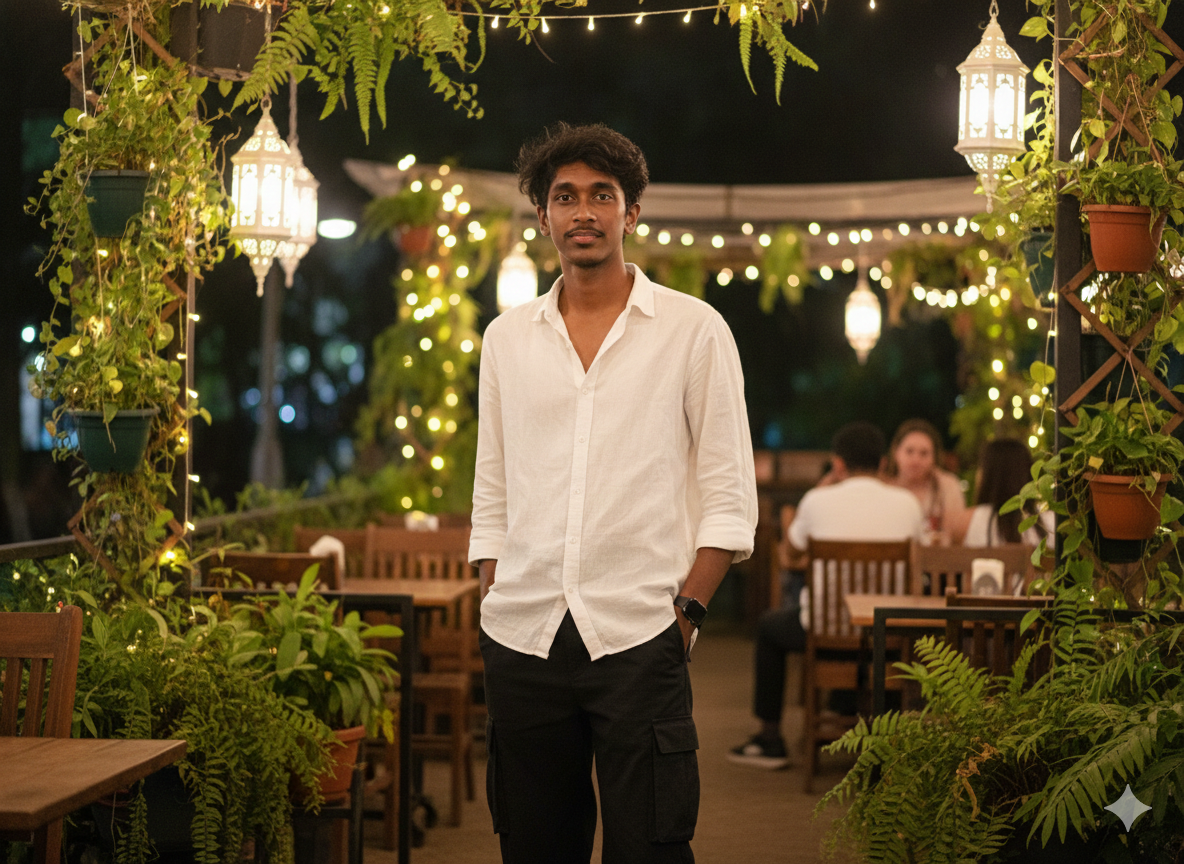
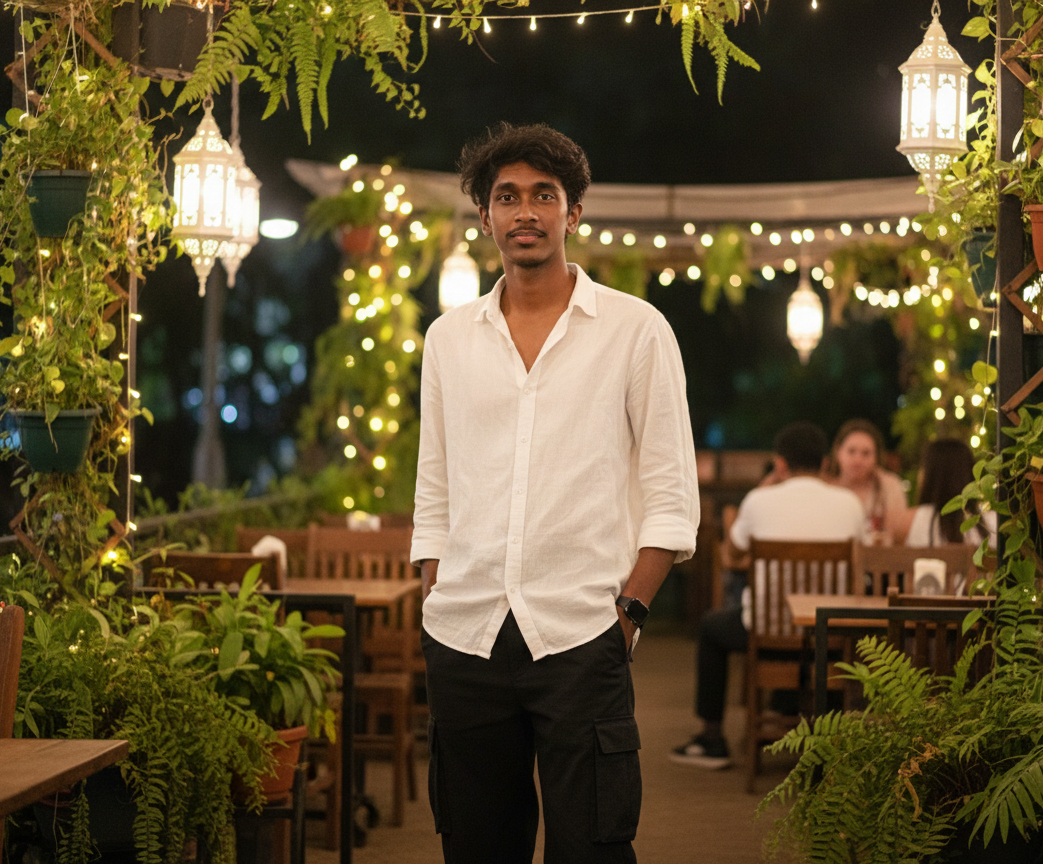
update

diff --git a/index.html b/index.html
@@ -229,17 +229,22 @@
 
                 <!-- Photo -->
                 <div class="about-photo relative flex lg:justify-self-end w-full max-w-[260px] sm:max-w-xs lg:max-w-sm lg:-mt-80 z-20 mx-auto lg:mx-0"
-                     data-aos="fade-left" data-aos-duration="1200">
-                    <div class="relative w-full rounded-2xl overflow-hidden border border-gray-800 shadow-2xl group">
+                    data-aos="fade-left" data-aos-duration="1200">
+                    <div
+                        class="relative w-full aspect-[4/5] rounded-2xl overflow-hidden border border-gray-800 shadow-2xl group">
                         <img src="assets/about.png" alt="Buddhika Fernando"
-                             class="w-full h-auto object-contain grayscale group-hover:grayscale-0 transition-all duration-700 group-hover:scale-105">
-                        <div class="absolute bottom-0 left-0 w-full h-1 bg-gradient-to-r from-pink-600 to-transparent opacity-0 group-hover:opacity-100 transition-opacity duration-500"></div>
+                            class="w-full h-full object-cover grayscale group-hover:grayscale-0 transition-all duration-700 group-hover:scale-105">
+                        <div
+                            class="absolute bottom-0 left-0 w-full h-1 bg-gradient-to-r from-pink-600 to-transparent opacity-0 group-hover:opacity-100 transition-opacity duration-500">
+                        </div>
                     </div>
                     <div class="absolute -bottom-4 -right-4 w-24 h-24 border border-pink-600/20 rounded-full animate-ping"
-                         style="animation-duration:3s;"></div>
+                        style="animation-duration:3s;"></div>
                     <div class="absolute -bottom-8 -right-8 w-36 h-36 border border-pink-600/10 rounded-full animate-ping"
-                         style="animation-duration:4s;animation-delay:1s;"></div>
-                    <div class="absolute -z-10 w-72 h-72 bg-pink-600/10 blur-[120px] -bottom-10 -right-10 pointer-events-none"></div>
+                        style="animation-duration:4s;animation-delay:1s;"></div>
+                    <div
+                        class="absolute -z-10 w-72 h-72 bg-pink-600/10 blur-[120px] -bottom-10 -right-10 pointer-events-none">
+                    </div>
                 </div>
             </div>
         </div>
